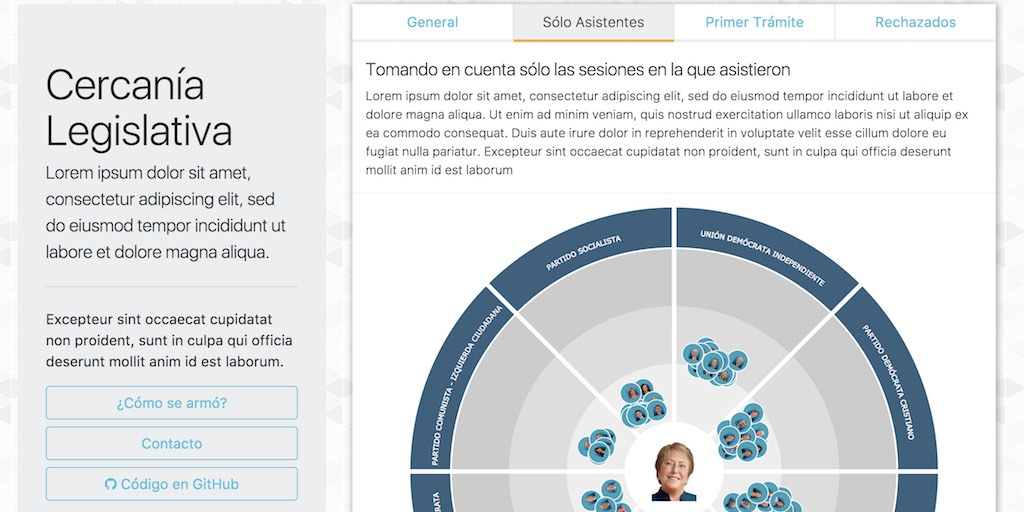
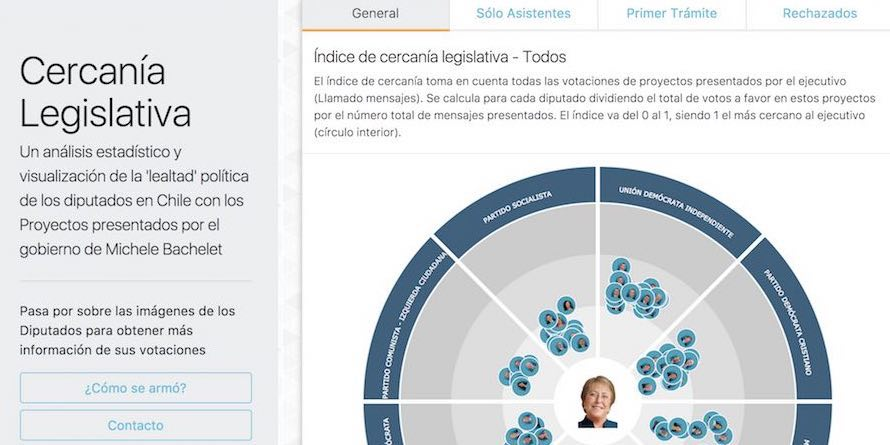
update

diff --git a/index.html b/index.html
@@ -39,19 +39,6 @@
 	<body>		
 		<nav class="mynavbar navbar-expand-lg navbar navbar-dark bg-primary fixed-top">
 		  <a class="navbar-brand" href="#">felipeares</a>
-		  <!-- 
-		  <button class="navbar-toggler" type="button" data-toggle="collapse" data-target="#navbarTogglerDemo02" aria-controls="navbarTogglerDemo02" aria-expanded="false" aria-label="Toggle navigation">
-		    <span class="navbar-toggler-icon"></span>
-		  </button>
-
-		  <div class="collapse navbar-collapse" id="navbarTogglerDemo02">
-		    <ul class="navbar-nav mr-auto mt-2 mt-lg-0">
-		      <li class="nav-item">
-		        <a class="nav-link" href="#">Link</a>
-		      </li>
-		    </ul>
-		  </div>
-		  -->
 		</nav>
 		
 	
@@ -63,10 +50,12 @@
 				<div class="col-md-6 px-0 py-0">
 					<div class="jumbotron my-0">
 					  <h1 class="display-4 mb-0" style="font-size:48px;">Felipe Ares</h1>
-					  <h2 class="mt-0 pt-0" style="font-size:28px;">Desarrollador / Ing de Datos</h2>
+					  <h2 class="mt-0 pt-0" style="font-size:28px;">Desarrollador / Data Science</h2>
 					  <p class="lead">En este lugar encontrarás mis más recientes trabajos realizados para el mundo de los datos. Con foco en modelos de predicción, clusterización, recomendación y visualizaciones</p>
 					  <hr class="my-4">
-					  <p>Actualmente tengo tiempo disponible para nuevos proyectos. Si tienes algo en mente no dudes en contactarme a <a href="#">felipeares.work@gmail.com</a> para que conversemos</p>
+					  <p><i class="fa fa-envelope"></i> <a href="#">felipeares.work@gmail.com</a></p>
+					  <p><i class="fa fa-github"></i> <a href="https://github.com/felipeares">https://github.com/felipeares</a></p>
+					  <p><i class="fa fa-linkedin"></i> <a href="https://www.linkedin.com/in/felipeares/">https://www.linkedin.com/in/felipeares/</a></p>
 					</div>
 				</div>
 				<div id="graph-container" class="col-md-6 px-0 py-0">
@@ -125,7 +114,7 @@
 							<img class="card-img-top" src="./public/images/cercanialegislativa_port.jpg" alt="Card image cap">
 							<div class="card-body">
 								<h5 class="card-title">Cercanía Legislativa</h5>
-								<p class="card-text">Lorem ipsum dolor sit amet, consectetur adipiscing elit, sed do eiusmod tempor incididunt ut labore et dolore magna aliqua</p>
+								<p class="card-text">Un análisis estadístico y visualización de la "lealtad" política de los diputados en Chile con los Proyectos presentados por el gobierno de Michelle Bachelet</p>
 							</div>
 							<ul class="list-group list-group-flush">
 								<li class="list-group-item">

diff --git a/public/js/main.js b/public/js/main.js
@@ -271,7 +271,7 @@ crearNodos(cv);
 
 var graph_container = $('#graph-container');
 var width = graph_container.width(), height = graph_container.height();
-var radius = 20;
+var radius = 25;
 var svg = d3.select("svg")
 			.attr("width", width)
 			.attr("height", height);
@@ -280,8 +280,10 @@ var simulation = d3.forceSimulation()
 					.force("link", d3.forceLink().id(function(d) { return d.id; }))
 					.force("charge", d3.forceManyBody())
 					.force("collide", d3.forceCollide(function(d) { return radius; }))
-					.force("force_bottom", d3.forceY(height).strength(0.15))
+					.force("force_bottom", d3.forceY(height).strength(0.2))
+					.force("force_top", d3.forceY().strength(0.2))
 					.force("force_left", d3.forceX().strength(0.15))
+					.force("force_right", d3.forceX(width).strength(0.15))
 					.force("center", d3.forceCenter(width / 2, height / 2));
 					
 
@@ -317,8 +319,8 @@ simulation
 
 simulation.force("link")
 	.links(links)
-	.distance(function(link) { return 50/(3*link.nivel+1); })
-	.strength(function(link) { return 2; });
+	.distance(function(link) { return 50/(2*link.nivel+1); })
+	.strength(function(link) { return 3; });
 
 
 function ticked() {

diff --git a/public/css/style.css b/public/css/style.css
@@ -58,7 +58,6 @@ body {
   stroke-opacity: 0.1;
 }
 
-.nodes circle {
-  stroke: #fff;
-  stroke-width: 1.5px;
+.jumbotron p a {
+	color: #555;
 }
